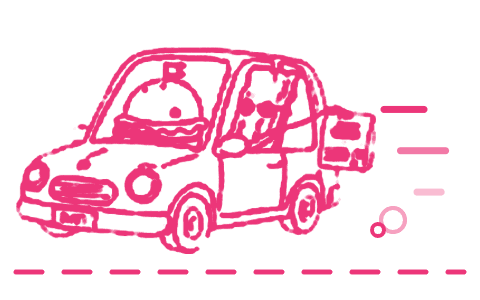
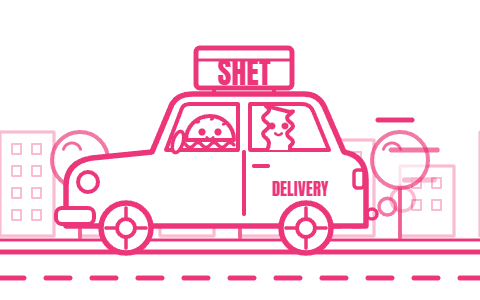
Seguimiento delivery: auto redibujado en línea limpia avanzando por la calle
El GIF del auto ahora es un dibujo vectorial nítido (hamburguesa al volante,
tocino de copiloto, caja SHET en el techo) con la calle, los postes, los
edificios y las líneas del pavimento desplazándose, ruedas girando y humo.

diff --git a/src/components/OrderTracker.jsx b/src/components/OrderTracker.jsx
@@ -22,7 +22,7 @@ export default function OrderTracker({ order, onClose ,zones=DELIVERY_ZONES}) {
       <header><div><small>SEGUIMIENTO · #{order.order_number||order.id}</small><h2>Tu pedido<br/><em>{stageTitle(currentStage,isDelivery)}</em></h2></div><button onClick={onClose} aria-label="Cerrar"><X/></button></header>
       <div className="tracker-status"><div className="tracker-status__top"><span>ESTADO ACTUAL</span><b>{orderStatusLabel(order)}</b></div><div className="tracker-line">{stages.map((stage,index)=><div className={`tracker-stage${index<=currentStage?' is-done':''}${index===currentStage?' is-current':''}`} key={stage}><div>{index<currentStage?<Check/>:index===currentStage?<Clock3/>:<span>{index+1}</span>}</div><p>{stage}</p></div>)}</div></div>
       <section className="tracker-receipt"><div className="tracker-receipt__heading"><h3>Recibo del pedido</h3><span>{isDelivery?'A DOMICILIO':'RETIRO'}</span></div>{order.items.map((item,index)=><div className="tracker-item-detail" key={item.product?.id||index}><div className="tracker-item"><span>{item.quantity} × {item.product?.name||item.name}</span><b>{money(item.price*item.quantity)}</b></div>{item.burger_choices?.length>0&&<small>Hamburguesas: {item.burger_choices.join(', ')}</small>}{item.selections?.map(selection=><small key={`${selection.label}-${selection.value}`}>{selection.label}: {selection.value}</small>)}{item.note&&<small>Nota: {item.note}</small>}</div>)}{deliveryZone&&<div className="tracker-item tracker-item--delivery"><span>Despacho · {deliveryZone.label}</span><b>{money(deliveryZone.fee)}</b></div>}{order.coupon_code&&<div className="tracker-item coupon-discount"><span>Cupón {order.coupon_code}</span><b>-{money(order.discount_amount)}</b></div>}<div className="tracker-total"><span>Total pagado</span><strong>{money(order.total)}</strong></div></section>
-      <div className="tracker-info"><MapPin/><div><b>{isDelivery?'Entrega a domicilio':'Retiro en el carrito SHET'}</b><span>{isDelivery?displayDeliveryAddress(address):business.pickupAddress}</span><small>{order.customer?.name||order.customer_name} · {order.customer?.phone||order.customer_phone}</small>{!isDelivery&&<a href={directionsUrl} target="_blank" rel="noreferrer">CÓMO LLEGAR ↗</a>}</div><picture className={`tracker-info__gif${isDelivery?" is-wide":""}`}><source media="(prefers-reduced-motion: reduce)" srcSet={`/assets/caricaturas/${isDelivery?"auto":"bolsa"}-still.png`}/><img src={`/assets/caricaturas/${isDelivery?"auto":"bolsa"}.gif`} alt={isDelivery?"Auto SHET repartiendo hamburguesas":"Hamburguesa SHET con tu pedido para llevar"} width={isDelivery?480:440} height={isDelivery?300:440}/></picture></div>
+      <div className="tracker-info"><MapPin/><div><b>{isDelivery?'Entrega a domicilio':'Retiro en el carrito SHET'}</b><span>{isDelivery?displayDeliveryAddress(address):business.pickupAddress}</span><small>{order.customer?.name||order.customer_name} · {order.customer?.phone||order.customer_phone}</small>{!isDelivery&&<a href={directionsUrl} target="_blank" rel="noreferrer">CÓMO LLEGAR ↗</a>}</div><picture className={`tracker-info__gif${isDelivery?" is-wide":""}`}><source media="(prefers-reduced-motion: reduce)" srcSet={`/assets/caricaturas/${isDelivery?"auto":"bolsa"}-still.png`}/><img src={`/assets/caricaturas/${isDelivery?"auto":"bolsa"}.gif`} alt={isDelivery?"Auto de reparto SHET avanzando por la calle con tu pedido":"Hamburguesa SHET con tu pedido para llevar"} width={isDelivery?480:440} height={isDelivery?300:440}/></picture></div>
     </aside>
   </div>;
 }

diff --git a/src/components/HomeJetset.jsx b/src/components/HomeJetset.jsx
@@ -49,7 +49,7 @@ const crew = [
   { src: '/assets/caricaturas/abrazo.gif', still: '/assets/caricaturas/abrazo-still.png', name: 'BFF', alt: 'Lata y hamburguesa SHET abrazándose' },
   { src: '/assets/caricaturas/tocino.gif', still: '/assets/caricaturas/tocino-still.png', name: 'BACON LOVERS', alt: 'Hamburguesa SHET comiendo tocino' },
   { src: '/assets/caricaturas/pepinillo.gif', still: '/assets/caricaturas/pepinillo-still.png', name: 'AJÍ PEPINILLO', alt: 'Hamburguesa SHET se come un ají y arde por lo picante' },
-  { src: '/assets/caricaturas/auto.gif', still: '/assets/caricaturas/auto-still.png', name: 'DELIVERY', alt: 'Hamburguesa y tocino SHET manejando el auto de reparto' },
+  { src: '/assets/caricaturas/auto.gif', still: '/assets/caricaturas/auto-still.png', name: 'DELIVERY', alt: 'Auto de reparto SHET con la hamburguesa al volante y el tocino de copiloto, avanzando por la calle' },
   { src: '/assets/caricaturas/bolsa.gif', still: '/assets/caricaturas/bolsa-still.png', name: 'PARA LLEVAR', alt: 'Hamburguesa SHET saltando con su bolsa de pedido' },
   { src: '/assets/caricaturas/cool.gif', still: '/assets/caricaturas/cool-still.png', name: 'LOS COOL', alt: 'Hamburguesa y tocino SHET con lentes de sol y papas fritas' },
   { src: '/assets/caricaturas/playa.gif', still: '/assets/caricaturas/playa-still.png', name: 'BACON BEACH', alt: 'Tocino SHET descansando bajo un quitasol' },
